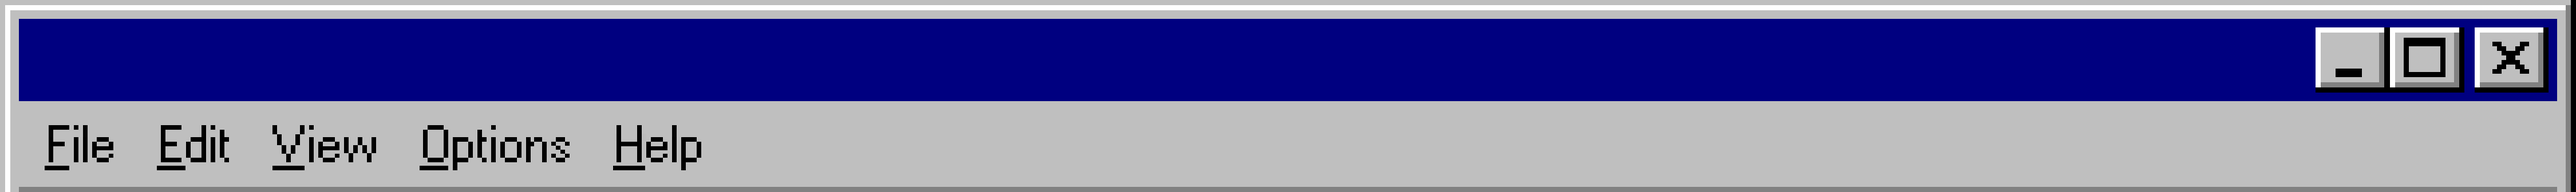
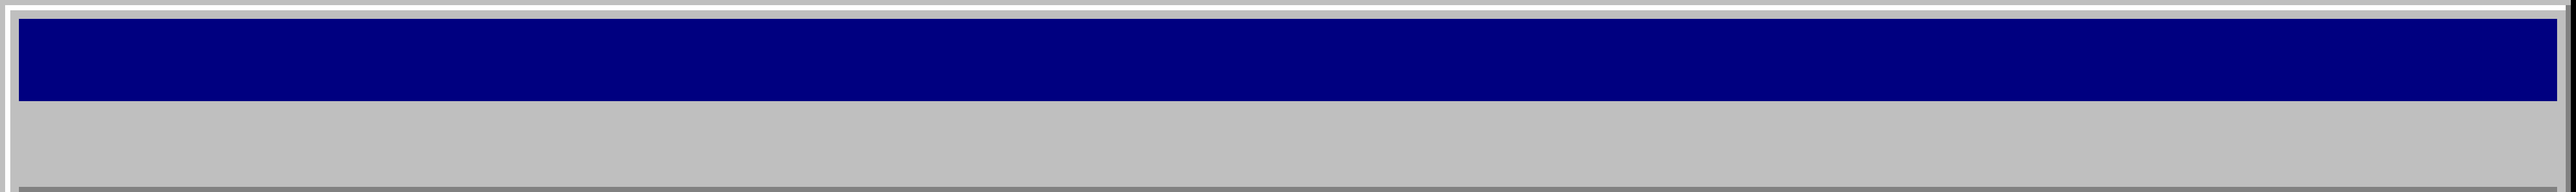
Blue menu on scroll

diff --git a/index.html b/index.html
@@ -82,6 +82,12 @@ body.hdr-img .bar .menu a{color:#000;padding:1px 10px;font-size:max(15px, calc(v
 body.hdr-img .bar .menu a:hover{background:#000080;color:#fff}
 body.hdr-img .bar .menu a.act{background:none;box-shadow:inset 1px 1px #818181, inset -1px -1px #fff}
 body.hdr-img .bar .themebtn{background:#1b2740;border:1px solid #000;border-radius:0}
+body.hdr-img .bar .menu{transition:background-color .15s}
+body.hdr-img.scrolled .bar .menu{background:#000080;left:calc(var(--k) * var(--tl) * 1px);right:calc(var(--k) * var(--tr) * 1px);padding:0 0 0 8px}
+body.hdr-img.scrolled .bar .menu a{color:#fff}
+body.hdr-img.scrolled .bar .menu a:hover{background:#fff;color:#000080}
+body.hdr-img.scrolled .bar .menu a.act{background:#1c1ccc;box-shadow:inset 1px 1px #8080ff, inset -1px -1px #00004a}
+body.hdr-img.scrolled .bar .themebtn{border-color:#fff}
 body.sharp .bar .cap,body.sharp .bar .fill,body.sharp .frame{image-rendering:pixelated}
 .frame{width:100%}
 body.frm-img .frame{border-style:solid;border-width:0 calc(var(--k) * var(--frm-slice) * 1px);border-image:var(--frm-img) 0 var(--frm-slice) / 0 calc(var(--k) * var(--frm-slice) * 1px) repeat}
@@ -228,7 +234,7 @@ dialog.win > .body{overflow:auto;flex:1}
    ===================================================================== */
 const SITE = {
   name: 'Jasmine Vis',
-  role: 'Level Designer · Art/Tech Design',
+  role: 'Level Designer',
   lookingFor: {
     headline: 'Looking for a level design internship in 2027',
     details: 'Interested in indie studios and small teams where I can work across level design, art and tools. Open to remote work or relocating (edit this line: dates, length, location).'
@@ -245,7 +251,7 @@ const SITE = {
   pixelSize: 3,                                    // screen pixels per pixel of your art. Bigger = chunkier frame
   pixelSizeSmall: 2,                               // same, for phones and small windows
   sourcePixel: 9,                                  // how many pixels wide one art pixel is in your PNG files (yours are 9)
-  topFrame: { leftCap: 33, rightCap: 456, fillAt: 2000, title: [33, 177], menu: [177, 327] },
+  topFrame: { leftCap: 33, rightCap: 33, fillAt: 2000, title: [33, 177], menu: [177, 327] },
                                                    // measurements of frame-top.png in file pixels: left edge width, right part
                                                    // (buttons) width, a flat spot to stretch, title bar top/bottom, menu bar top/bottom
   sharp: true,                                     // keep the frame crisp (pixel art)
@@ -477,8 +483,8 @@ dlg.addEventListener('close', () => { if (dlg._from) dlg._from.focus(); });
 /* =====================================================================
    4. Taskbar, start menu, clock
    ===================================================================== */
-const NAV = [['showreel', 'Showreel', 'video'], ['about', 'About', 'user'], ['projects', 'Projects', 'folder'], ['contact', 'Contact', 'mail']];
-const go = id => { const el = document.getElementById(id); if (el){ if (el.classList.contains('collapsed')){ el.classList.remove('collapsed'); } el.scrollIntoView({ block: 'start' }); } };
+const NAV = [['showreel', 'Home', 'video'], ['about', 'About me', 'user'], ['projects', 'Projects', 'folder'], ['contact', 'Contact', 'mail']];
+const go = id => { if (id === 'showreel'){ scrollTo({ top: 0 }); return; } const el = document.getElementById(id); if (el){ if (el.classList.contains('collapsed')){ el.classList.remove('collapsed'); } el.scrollIntoView({ block: 'start' }); } };
 $('#tasks').innerHTML = NAV.map(([id, label, icon]) => `<button class="task perm" data-go="${id}" title="${label}">${ic(icon)}<span>${label}</span></button>`).join('');
 $('#start').innerHTML = `${ic('win')}<span>start</span>`;
 $('#menu').innerHTML = `<div class="top">${ic('user')}<span>${esc(SITE.name)}</span></div>
@@ -498,6 +504,8 @@ document.addEventListener('click', e => {
 let ticking = false;
 function markActive(){
   ticking = false;
+  const k = parseFloat(getComputedStyle(document.documentElement).getPropertyValue('--k')), pin = (k && SITE.topFrame) ? k * SITE.topFrame.title[1] - 1 : 60;
+  document.body.classList.toggle('scrolled', scrollY >= pin);          // once the menu bar is pinned, it turns blue
   let cur = NAV[0][0];
   NAV.forEach(([id]) => { const el = document.getElementById(id); if (el && el.getBoundingClientRect().top <= innerHeight * 0.4) cur = id; });
   if (innerHeight + scrollY >= document.documentElement.scrollHeight - 6) cur = 'contact';
@@ -526,6 +534,7 @@ const FONTS = ['Pixelify Sans', 'Silkscreen', 'Press Start 2P', 'VT323', 'Jersey
   $('#top').innerHTML = `<div class="ttl"><h1 class="nm">${esc(SITE.name)}</h1><p class="rl">${esc(SITE.role)}</p></div>
     <nav class="menu" aria-label="Sections">${NAV.map(([id, label]) => `<a href="#${id}" data-go="${id}"><u>${label[0]}</u>${label.slice(1)}</a>`).join('')}<button class="themebtn"></button></nav>`;
   if (SITE.sharp) body.classList.add('sharp');
+  markActive();
   if (!SITE.taskbar) body.classList.add('no-taskbar');
 
   const setScale = () => root.style.setProperty('--k', ((innerWidth < 700 ? SITE.pixelSizeSmall : SITE.pixelSize) / SITE.sourcePixel).toFixed(5));
